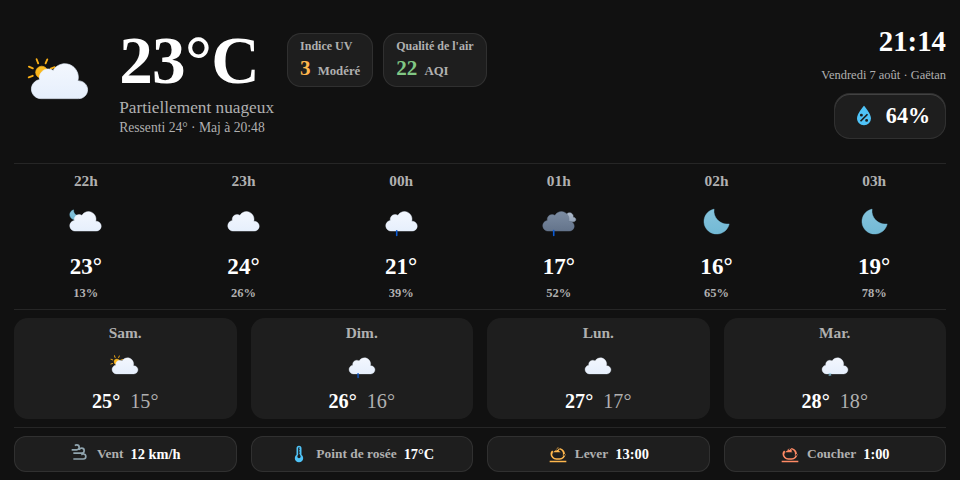
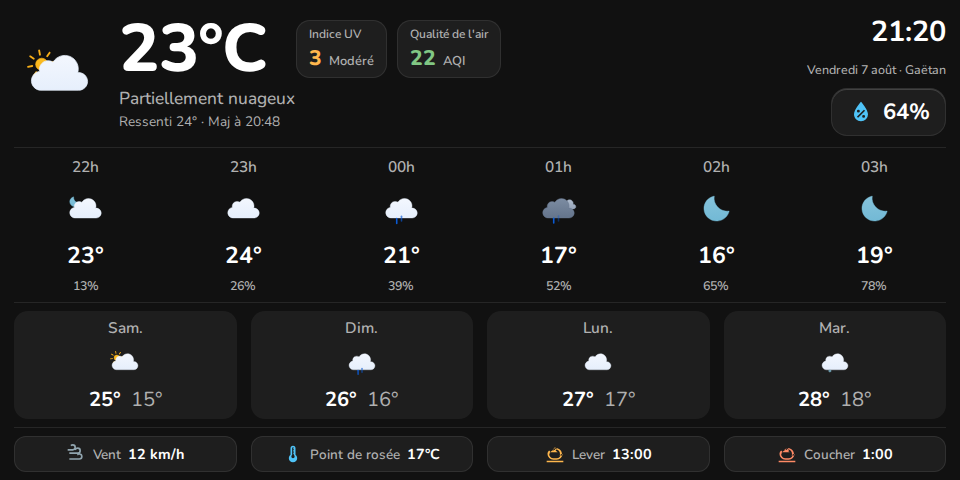
docs: refresh screenshot with Nunito, the project's reference font
Nunito est validée comme police de référence — le rendu et la légende
du README reflètent maintenant ce choix. La carte elle-même ne bundle
toujours aucune police (--echo-weather-font-family, repli sur
inherit) : c'est à appliquer en amont (thème HA, card-mod, vue View
Assist).

diff --git a/README.md b/README.md
@@ -7,7 +7,9 @@ Carte météo Home Assistant compacte, pensée pour les petits smart displays
 
 > Rendu généré via un navigateur headless en 960x480 avec des données de
 > test, pas une capture sur l'Echo Show 5 lui-même — utile pour vérifier la
-> mise en page en attendant une vraie capture sur l'appareil.
+> mise en page en attendant une vraie capture sur l'appareil. Police
+> Nunito appliquée via `--echo-weather-font-family` (non incluse par la
+> carte, voir plus bas) — c'est la police de référence pour ce projet.
 
 Statut : en développement (MVP).
 
